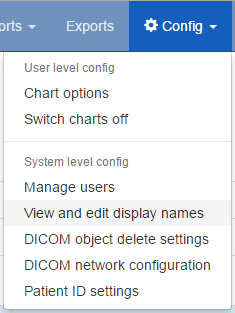
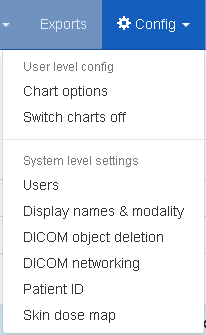
Refs #445 Make modality more flexible
Updated menu item captions, documentation and 2 screenshots.

Changed region(s): [[0.0, 0.0, 1.0, 1.0], [0.0, 0.0575, 0.1456, 0.115]]

diff --git a/openrem/remapp/templates/base.html b/openrem/remapp/templates/base.html
@@ -105,17 +105,17 @@
                       <li><a href="/openrem/chartoptions">Chart options</a></li>
                       <li><a href="/openrem/charts_off">Switch charts off</a></li>
                       {% if not admin.admingroup %}
-                        <li><a href="/openrem/viewdisplaynames">View display names</a></li>
+                        <li><a href="/openrem/viewdisplaynames">View display names & modality</a></li>
                       {% endif %}
                       {% if admin.admingroup %}
                         <li role="separator" class="divider"></li>
-                        <li class="dropdown-header">System level config</li>
-                        <li><a href="/admin/auth/user/">Manage users</a></li>
-                        <li><a href="/openrem/viewdisplaynames">View and edit display names</a></li>
-                        <li><a href="/openrem/admin/dicomdelsettings/1/">DICOM object delete settings</a> </li>
-                        <li><a href="/openrem/admin/dicomsummary">DICOM network configuration</a></li>
-                        <li><a href="/admin/patientidsettings/1/">Patient ID settings</a> </li>
-                        <li><a href="/admin/skindosemapsettings/1/">Skin dose map settings</a> </li>
+                        <li class="dropdown-header">System level settings</li>
+                        <li><a href="/admin/auth/user/">Users</a></li>
+                        <li><a href="/openrem/viewdisplaynames">Display names & modality</a></li>
+                        <li><a href="/openrem/admin/dicomdelsettings/1/">DICOM object deletion</a> </li>
+                        <li><a href="/openrem/admin/dicomsummary">DICOM networking</a></li>
+                        <li><a href="/admin/patientidsettings/1/">Patient ID</a> </li>
+                        <li><a href="/admin/skindosemapsettings/1/">Skin dose map</a> </li>
                       {% endif %}
                     </ul>
                 </li>

diff --git a/docs/i_displaynames.rst b/docs/i_displaynames.rst
@@ -1,6 +1,7 @@
 Viewing and editing individual x-ray system display names and set user defined modality using the web interface
 ***************************************************************************************************************
 *New in 0.7.0*
+
 *Functionality changed in 0.8.0*
 
 .. contents::
@@ -57,8 +58,8 @@ Viewing x-ray system display names and user defined modality
 If you log in as a normal user then the ``Config`` menu becomes available
 at the right-hand end of the navigation bar at the top of the screen.
 
-The third option, ``View display names``, takes you to a page where you can
-view the list of x-ray systems with data in OpenREM together with their
+The third option, ``View display names & modality``, takes you to a page where
+you can view the list of x-ray systems with data in OpenREM together with their
 current display name and user defined modality. If the user defined modality
 is not set, the value contains ``None``. The x-ray systems are grouped
 into modalities and displayed in five tables: CT; mammography; DX and CR;
@@ -85,8 +86,8 @@ Changing x-ray system display names and user defined modality
 
 If you wish to make changes to a display name or to the user defined
 modality then you must log in as a user that is in the ``admingroup``. You will
-then be able to use the ``View and edit display names`` item under the ``Config``
-menu:
+then be able to use the ``Display names & modality`` item under the
+``Config`` menu:
 
 This will take you to a page where you can view the list of x-ray systems with
 data in OpenREM. If you wish to change a display name or the user defined modality
